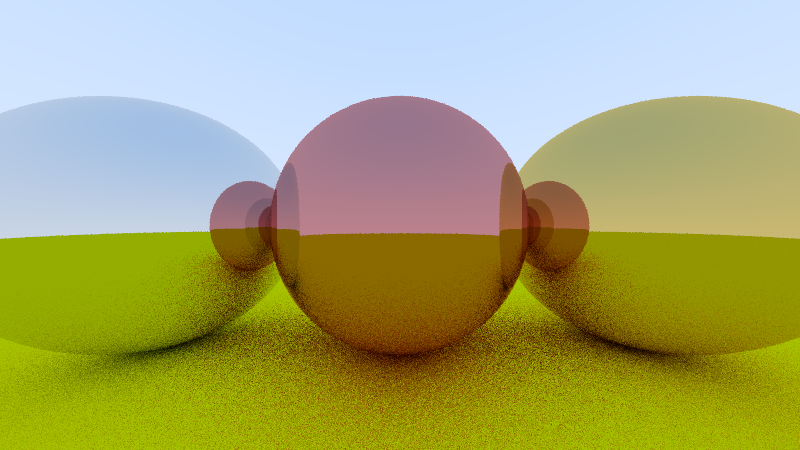
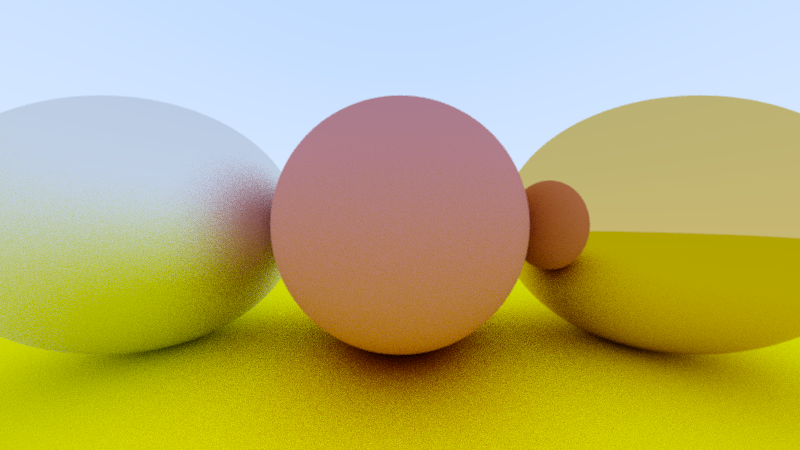
Fuzzy metals

diff --git a/raytracer/main.cpp b/raytracer/main.cpp
@@ -12,8 +12,8 @@ int main()
 {
 	int width = 800;
 	double aspectRatio = 16.0 / 9.0;
-	int samplesPerPixel = 4;
-	int maxRayDepth = 500;
+	int samplesPerPixel = 32;
+	int maxRayDepth = 50;
 
 	auto camera = std::make_shared<Camera>();
 	Scene scene = Scene(camera);
@@ -29,8 +29,8 @@ int main()
 void DemoScene(Scene& scene, Camera* camera)
 {
 	auto groundMat = std::make_shared<DiffuseLambert>(Colour(0.8, 0.8, 0.0));
-	auto centreMat = std::make_shared<Metal>(Colour(0.7, 0.3, 0.3));
-	auto leftMat = std::make_shared<Metal>(Colour(0.8, 0.8, 0.8));
+	auto centreMat = std::make_shared<DiffuseLambert>(Colour(0.7, 0.3, 0.3));
+	auto leftMat = std::make_shared<Metal>(Colour(0.8, 0.8, 0.8), 0.8);
 	auto rightMat = std::make_shared<Metal>(Colour(0.8, 0.6, 0.2));
 
 	scene.Add(std::make_shared<Sphere>(Point3(0.0, -100.5, -1.0), 100.0, groundMat));

diff --git a/raytracer/materials/metal.cpp b/raytracer/materials/metal.cpp
@@ -1,11 +1,14 @@
 #include "metal.hpp"
+#include "../utils/math_utils.hpp"
+#include "../geometry/sphere.hpp"
 
-Metal::Metal(const Colour& albedo) : albedo(albedo) {}
+Metal::Metal(const Colour& albedo) : albedo(albedo), fuzziness(0.0) {}
+Metal::Metal(const Colour& albedo, const double fuzziness) : albedo(albedo), fuzziness(Clamp01(fuzziness)) {}
 
 bool Metal::Scatter(const Ray& ray, const HitRecord& hitRecord, Colour& attenuation, Ray& scattered) const
 {
 	Vec3 reflected = ray.direction.Normalised().reflect(hitRecord.normal);
-	scattered = Ray(hitRecord.point, reflected);
+	scattered = Ray(hitRecord.point, reflected + fuzziness * Sphere::RandomPointInUnitSphere());
 	attenuation = albedo;
 
 	return (dot(scattered.direction, hitRecord.normal) > 0.0);

diff --git a/raytracer/materials/metal.hpp b/raytracer/materials/metal.hpp
@@ -7,9 +7,11 @@ class Metal : public Material
 {
 public:
 	Colour albedo;
+	double fuzziness;
 
 public:
 	Metal(const Colour& albedo);
+	Metal(const Colour& albedo, const double fuzzyness);
 	virtual bool Scatter(const Ray& ray, const HitRecord& hitRecord, Colour& attenuation, Ray& scattered) const override;
 };
 
